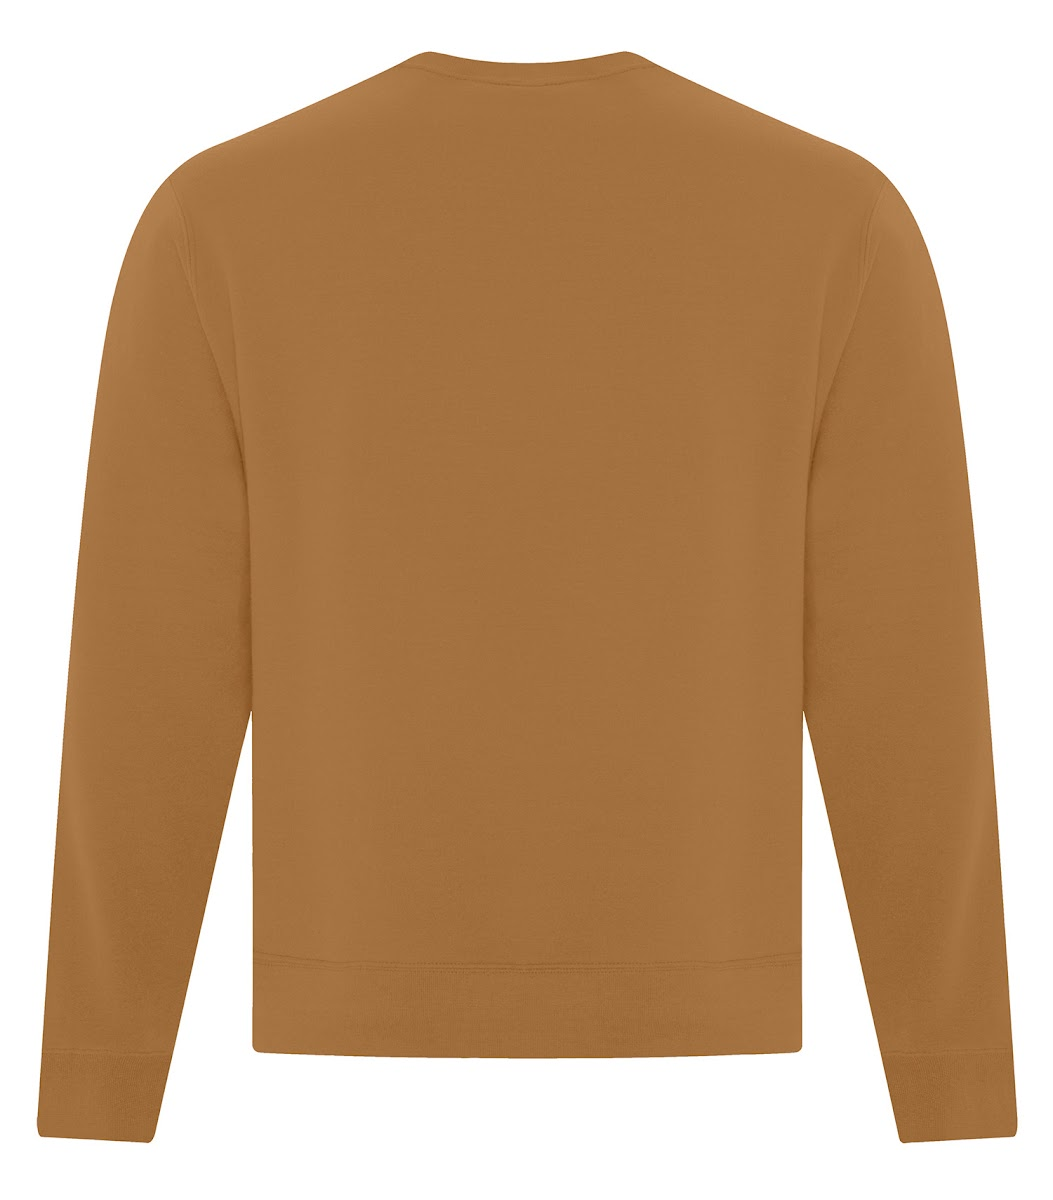
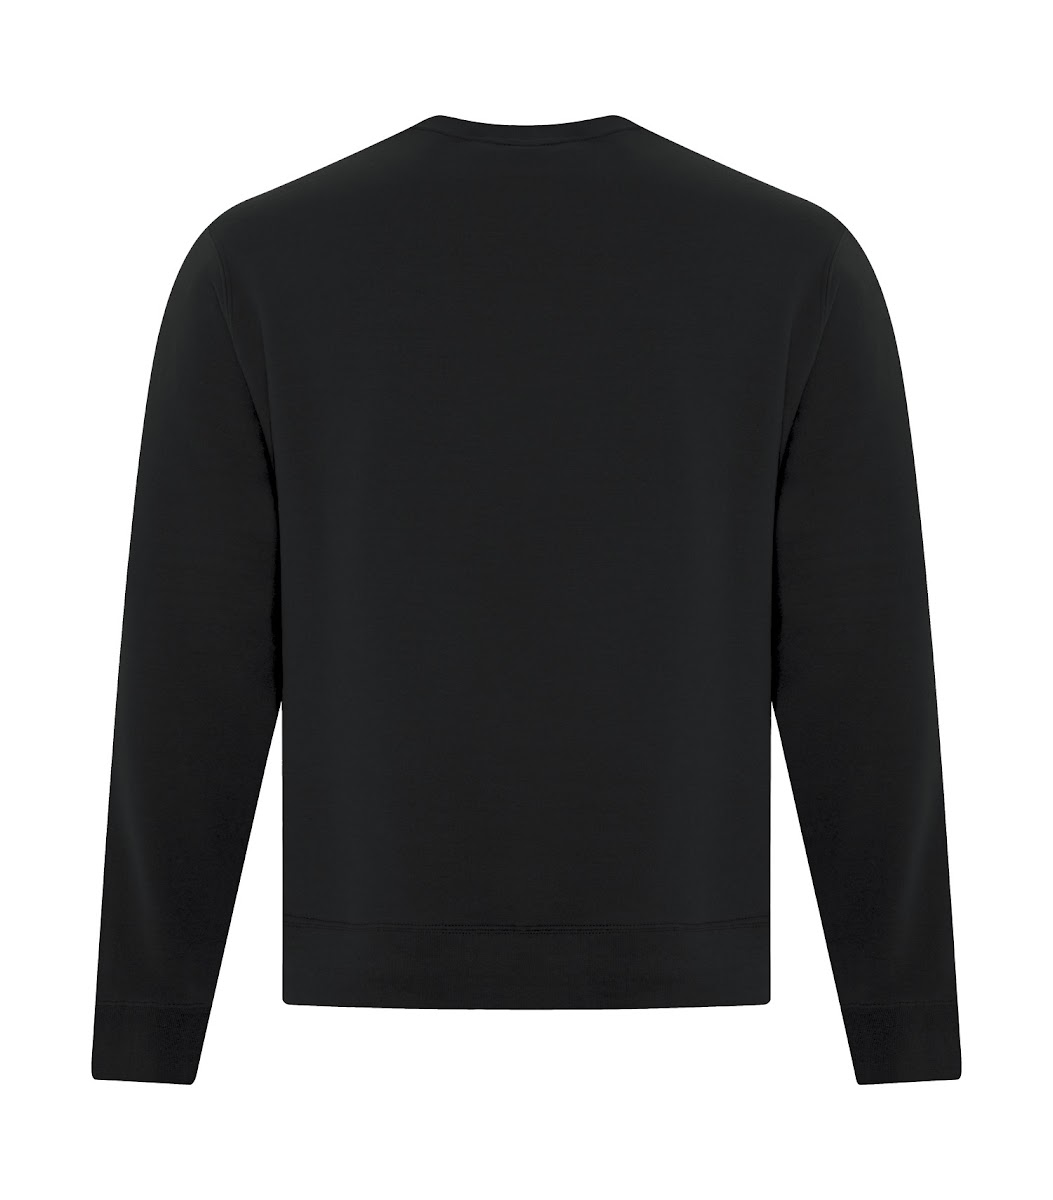
feat: complete clean product images — 18/20 products now have Drive photos
Downloaded 857 clean product images from Google Drive and selected the
best black front+back pair for each product. 36 images (18 products x2)
now in public/products/.

All CDN "VOTRE LOGO" mockup URLs in products.ts replaced with clean
/products/*-Clean.jpg paths. Only ATC1000Y and C105 remain on CDN
(their Drive folders were empty).

Products now using clean images:
ATCF2500, ATCY2500, ATCF2600, ATCF2400, ATC1000, ATC1000L, WERK250,
ATC1015, S445, L445, S445LS, S350, L350, Y350, ATC6606, ATC6245CM,
ATC6277, C100

diff --git a/src/data/products.ts b/src/data/products.ts
@@ -88,8 +88,8 @@ const ATCF2500_COLORS: ProductColor[] = [
 
 const ATC1000_COLORS: ProductColor[] = [
   { id: 'black',            name: 'Noir',              nameEn: 'Black',            hex: '#141414',
-    imageDevant: `${CDN}/ATC1000-Devant.jpg?v=1770866927&width=800`,
-    imageDos:    `${CDN}/ATC1000-Dos.jpg?v=1770866927&width=800` },
+    imageDevant: '/products/ATC1000-Devant-Clean.jpg',
+    imageDos:    '/products/ATC1000-Dos-Clean.jpg' },
   { id: 'white',            name: 'Blanc',             nameEn: 'White',            hex: '#F2F0EB' },
   { id: 'navy',             name: 'Marine',            nameEn: 'Navy',             hex: '#1D2B4F' },
   { id: 'athletic-heather', name: 'Gris sportif chiné',nameEn: 'Athletic Heather', hex: '#9CA3AF' },
@@ -276,8 +276,8 @@ export const PRODUCTS: Product[] = [
     id: 's445', sku: 'S445',
     name: 'Polo homme à manches courtes — S445', shortName: 'Polo',
     category: 'polo', gender: 'homme', basePrice: 27.99,
-    imageDevant: `${CDN}/S445-Devant.jpg?v=1770866896&width=800`,
-    imageDos:    `${CDN}/S445-Dos.jpg?v=1770866896&width=800`,
+    imageDevant: '/products/S445-Devant-Clean.jpg',
+    imageDos:    '/products/S445-Dos-Clean.jpg',
     shopifyHandle: 's445-1',
     colors: POLO_S445_COLORS,
     sizes: ['XS','S','M','L','XL','2XL','3XL','4XL'],
@@ -329,8 +329,8 @@ export const PRODUCTS: Product[] = [
     id: 's350', sku: 'S350',
     name: 'T-Shirt sport homme — S350', shortName: 'T-Shirt Sport',
     category: 'sport', gender: 'homme', basePrice: 13.99,
-    imageDevant: `${CDN}/S350-Devant.jpg?v=1770866896&width=800`,
-    imageDos:    `${CDN}/S350-Dos.jpg?v=1770866896&width=800`,
+    imageDevant: '/products/S350-Devant-Clean.jpg',
+    imageDos:    '/products/S350-Dos-Clean.jpg',
     shopifyHandle: 's350-1',
     colors: POLO_S445_COLORS,
     sizes: ['XS','S','M','L','XL','2XL','3XL','4XL'],
@@ -342,8 +342,8 @@ export const PRODUCTS: Product[] = [
     id: 'l350', sku: 'L350',
     name: 'T-Shirt sport femme — L350', shortName: 'T-Shirt Sport F',
     category: 'sport', gender: 'femme', basePrice: 13.99,
-    imageDevant: `${CDN}/L350-Devant.jpg?v=1770867170&width=800`,
-    imageDos:    `${CDN}/L350-Dos.jpg?v=1770867170&width=800`,
+    imageDevant: '/products/L350-Devant-Clean.jpg',
+    imageDos:    '/products/L350-Dos-Clean.jpg',
     shopifyHandle: 'l350-1',
     colors: POLO_S445_COLORS,
     sizes: ['XS','S','M','L','XL','2XL'],
@@ -355,8 +355,8 @@ export const PRODUCTS: Product[] = [
     id: 'y350', sku: 'Y350',
     name: 'T-Shirt sport enfant — Y350', shortName: 'T-Shirt Sport E',
     category: 'sport', gender: 'enfant', basePrice: 13.99,
-    imageDevant: `${CDN}/Y350-Devant.jpg?v=1770867079&width=800`,
-    imageDos:    `${CDN}/Y350-Dos.jpg?v=1770867079&width=800`,
+    imageDevant: '/products/Y350-Devant-Clean.jpg',
+    imageDos:    '/products/Y350-Dos-Clean.jpg',
     shopifyHandle: 'y350-1',
     colors: POLO_S445_COLORS.slice(0, 7),
     sizes: ['XS','S','M','L','XL'],
@@ -370,8 +370,8 @@ export const PRODUCTS: Product[] = [
     id: 'atc6606', sku: 'ATC6606',
     name: 'Casquette Trucker — Yupoong 6606', shortName: 'Casquette Trucker',
     category: 'cap', gender: 'unisex', basePrice: 15.39,
-    imageDevant: `${CDN}/yupoong-6606-noir-2_cb488769-745e-41f0-91fd-f317d9787cae.jpg?v=1763598460&width=800`,
-    imageDos:    `${CDN}/6sgh1j.png?v=1774840440&width=800`,
+    imageDevant: '/products/ATC6606-Devant-Clean.jpg',
+    imageDos:    '/products/ATC6606-Dos-Clean.jpg',
     shopifyHandle: 'atc6606',
     colors: CAP_ATC6606_COLORS,
     sizes: ['Taille unique'],
@@ -383,8 +383,8 @@ export const PRODUCTS: Product[] = [
     id: '6245cm', sku: '6245CM',
     name: 'Casquette Baseball Unisexe — 6245CM', shortName: 'Casquette Baseball',
     category: 'cap', gender: 'unisex', basePrice: 15.39,
-    imageDevant: `${CDN}/c7d01dfb7dac4c79bd82abffc68e043c_l_21bd6f74-2540-48fe-bdd9-6d337329a5b5.jpg?v=1763598101&width=800`,
-    imageDos:    `${CDN}/c7d01dfb7dac4c79bd82abffc68e043c_l_21bd6f74-2540-48fe-bdd9-6d337329a5b5.jpg?v=1763598101&width=800`,
+    imageDevant: '/products/ATC6245CM-Devant-Clean.jpg',
+    imageDos:    '/products/ATC6245CM-Dos-Clean.jpg',
     shopifyHandle: '6245cm',
     colors: CAP_ATC6606_COLORS.slice(0, 6),
     sizes: ['Taille unique'],
@@ -412,7 +412,7 @@ export const PRODUCTS: Product[] = [
     name: 'Tuque à rebord — C100', shortName: 'Tuque Rebord',
     category: 'toque', gender: 'unisex', basePrice: 4.50,
     imageDevant: '/products/C100-Devant-Clean.jpg',
-    imageDos:    '/products/C100-Devant-Clean.jpg',
+    imageDos:    '/products/C100-Dos-Clean.jpg',
     shopifyHandle: 'c100-1',
     colors: BEANIE_C105_COLORS,
     sizes: ['Taille unique'],
